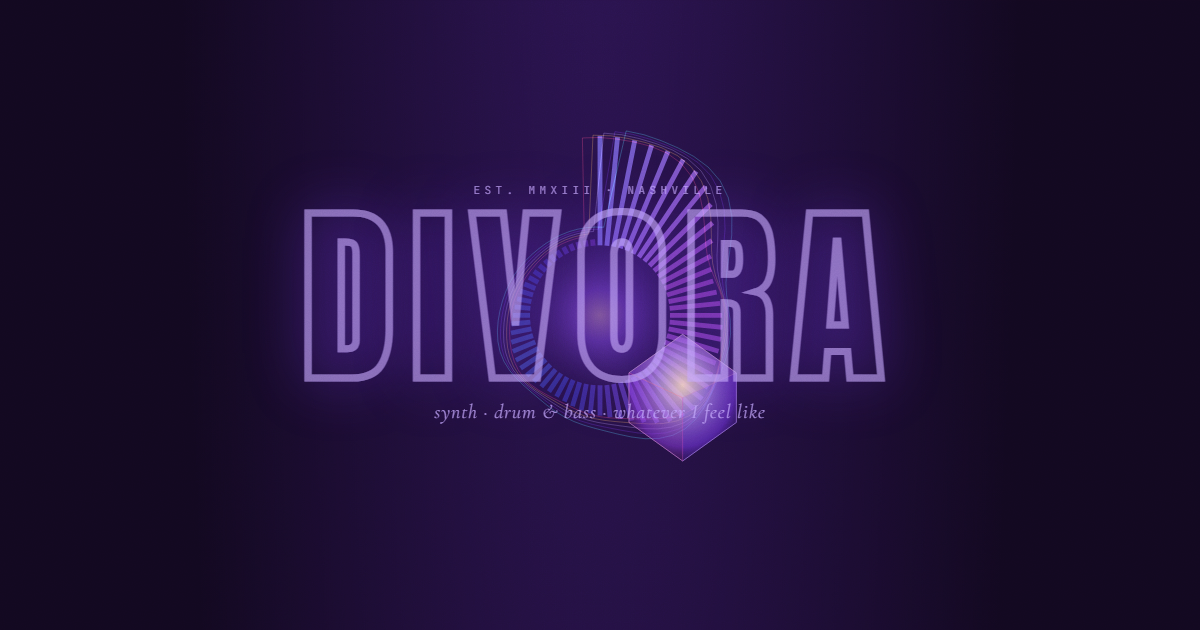
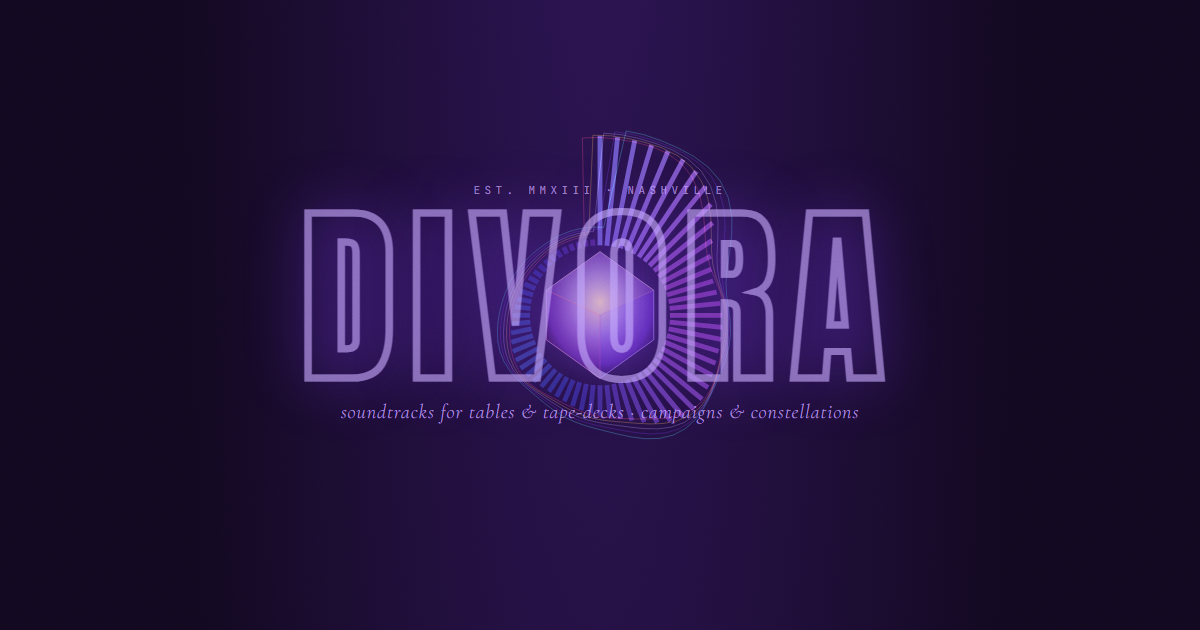
Cleanup pass: SEO meta, OG image, SFX volume, scrub throttle
Five small issues that should have landed with Phases A–F.

1. SEO meta + JSON-LD genres still said "synth · drum and bass"
   The `<meta name="description">`, `og:description`, and
   `twitter:description` all carried the original design-placeholder
   copy. Rewritten to match Phase E's tabletop framing:

     "Divora — a Nashville musician scoring tabletop campaigns and
     the spaces in between. Ambient, battle cues, and the music a
     party hears in a tavern that may or may not be real."

   MusicGroup JSON-LD `genre` updated from
     ["Synth", "Drum and Bass", "Soundtrack"]
   to
     ["Soundtrack", "Ambient", "Tabletop RPG", "Synth"].

2. OG image regenerated
   public/og.png was captured against the old tagline; rerunning
   `npm run og:generate` produced a new 632 KB image with
   "soundtracks for tables & tape-decks · campaigns & constellations"
   visible under the wordmark.

3. SFX now scale with the music volume slider
   tape eject/insert clips used to play at full volume regardless
   of the user's volume slider or mute state. cassette.js now
   tracks musicVolume + musicMuted (updated via setVolumeUI) and
   has a single playSfx() helper that skips when muted and
   multiplies clip.volume by music level × 0.7 (transient SFX a
   touch quieter than music feels right).

4. Drag-scrub throttled via requestAnimationFrame
   pointermove on the progress bar used to call audio.currentTime
   on every event — at 60+ events/sec, the audio decoder thrashes
[…]

Changed region(s): [[0.2775, 0.3921, 0.7092, 0.7238]]

diff --git a/src/cassette.js b/src/cassette.js
@@ -109,6 +109,20 @@ export function initCassette({
   sfx.eject.preload = 'auto';
   sfx.insert.preload = 'auto';
 
+  // Track the user's music volume + mute so SFX scale with them.
+  // The host calls setVolumeUI(level, muted) on init and on every
+  // change; we cache the level here so SFX playback can multiply
+  // against it (and skip entirely when muted).
+  let musicVolume = 1;
+  let musicMuted = false;
+  const SFX_VOLUME_FACTOR = 0.7; // SFX are slightly quieter than music
+  const playSfx = (clip) => {
+    if (musicMuted) return;
+    clip.volume = Math.max(0, Math.min(1, musicVolume * SFX_VOLUME_FACTOR));
+    clip.currentTime = 0;
+    clip.play().catch(() => {});
+  };
+
   let currentIndex = initialIndex;
   let swapInFlight = false;
   let typeAbort = null;
@@ -259,7 +273,15 @@ export function initCassette({
   // to scrub. Uses pointer events so touch + mouse + pen all work
   // through the same path. The tooltip follows the cursor along the
   // bar and shows the target time live.
+  //
+  // Dragging produces a torrent of pointermove events — without
+  // throttling, writing audio.currentTime that often makes the
+  // decoder stutter. We coalesce into one seek per animation frame
+  // via requestAnimationFrame, and flush the final position on
+  // pointerup so the audio lands exactly where the user released.
   let dragging = false;
+  let pendingRatio = null;
+  let seekRaf = 0;
   let currentDuration = TRACKS[initialIndex].duration;
 
   const ratioForEvent = (e) => {
@@ -271,11 +293,22 @@ export function initCassette({
     barTooltip.textContent = fmtTime(ratio * currentDuration);
     barTooltip.style.left = `${ratio * 100}%`;
   };
+  const flushSeek = () => {
+    if (pendingRatio !== null) {
+      onSeek?.(pendingRatio);
+      pendingRatio = null;
+    }
+    seekRaf = 0;
+  };
+  const queueSeek = (ratio) => {
+    pendingRatio = ratio;
+    if (!seekRaf) seekRaf = requestAnimationFrame(flushSeek);
+  };
   const onBarPointerMove = (e) => {
     if (!barBtn) return;
     const ratio = ratioForEvent(e);
     updateTooltip(ratio);
-    if (dragging) onSeek?.(ratio);
+    if (dragging) queueSeek(ratio);
   };
   const onBarPointerDown = (e) => {
     if (!barBtn) return;
@@ -284,6 +317,7 @@ export function initCassette({
     barBtn.setPointerCapture?.(e.pointerId);
     const ratio = ratioForEvent(e);
     updateTooltip(ratio);
+    // First touch seeks immediately for "click to seek" feel.
     onSeek?.(ratio);
   };
   const onBarPointerUp = (e) => {
@@ -291,6 +325,13 @@ export function initCassette({
     dragging = false;
     barBtn.classList.remove('dragging');
     barBtn.releasePointerCapture?.(e.pointerId);
+    // Flush any queued seek so the audio lands exactly where the
+    // user released, not at whatever frame the last rAF saw.
+    if (seekRaf) {
+      cancelAnimationFrame(seekRaf);
+      seekRaf = 0;
+    }
+    flushSeek();
   };
   barBtn?.addEventListener('pointermove', onBarPointerMove);
   barBtn?.addEventListener('pointerdown', onBarPointerDown);
@@ -355,8 +396,7 @@ export function initCassette({
     // wants us to auto-resume after insert.
     const wantResume = (await onSwap?.({ fromIndex, toIndex: nextIndex })) === true;
 
-    sfx.eject.currentTime = 0;
-    sfx.eject.play().catch(() => {});
+    playSfx(sfx.eject);
 
     if (!SKIP_ANIM) {
       tape.classList.remove('inserting');
@@ -369,8 +409,7 @@ export function initCassette({
     applyTrackToTape(toTrack);
     reflectSwitcher();
 
-    sfx.insert.currentTime = 0;
-    sfx.insert.play().catch(() => {});
+    playSfx(sfx.insert);
 
     if (!SKIP_ANIM) {
       tape.classList.remove('ejecting');
@@ -494,6 +533,8 @@ export function initCassette({
       timeEl.textContent = `${fmtTime(currentSec)} / ${fmtTime(d)}`;
     },
     setVolumeUI(level, muted) {
+      musicVolume = level;
+      musicMuted = !!muted;
       if (volumeInput) {
         const pct = Math.round(level * 100);
         volumeInput.value = String(pct);
@@ -511,6 +552,7 @@ export function initCassette({
     },
     destroy() {
       if (raf) cancelAnimationFrame(raf);
+      if (seekRaf) cancelAnimationFrame(seekRaf);
       document.removeEventListener('visibilitychange', onVisibility);
       trackSwitcher?.removeEventListener('click', onSwitcherClick);
       barBtn?.removeEventListener('pointermove', onBarPointerMove);

diff --git a/index.html b/index.html
@@ -6,7 +6,7 @@
     <title>Divora · Official Website</title>
     <meta
       name="description"
-      content="Divora — a musician in Nashville making synth, drum and bass, and whatever music feels true. Two folios. One signal."
+      content="Divora — a Nashville musician scoring tabletop campaigns and the spaces in between. Ambient, battle cues, and the music a party hears in a tavern that may or may not be real."
     />
     <meta name="theme-color" content="#1a0b2e" />
     <link rel="canonical" href="https://nick.sanft.com/music/" />
@@ -23,7 +23,7 @@
     <meta property="og:title" content="Divora · Official Website" />
     <meta
       property="og:description"
-      content="A musician in Nashville making synth, drum and bass, and whatever music feels true."
+      content="Soundtracks for tables and tape-decks. A Nashville musician scoring tabletop campaigns and the spaces in between."
     />
     <meta property="og:url" content="https://nick.sanft.com/music/" />
     <meta property="og:locale" content="en_US" />
@@ -40,7 +40,7 @@
     <meta name="twitter:title" content="Divora · Official Website" />
     <meta
       name="twitter:description"
-      content="A musician in Nashville making synth, drum and bass, and whatever music feels true."
+      content="Soundtracks for tables and tape-decks. A Nashville musician scoring tabletop campaigns and the spaces in between."
     />
     <meta name="twitter:image" content="https://nick.sanft.com/music/og.png" />
     <meta
@@ -59,7 +59,7 @@
         "foundingDate": "2013",
         "sameAs": ["https://divora.bandcamp.com/"],
         "email": "divoramusic@gmail.com",
-        "genre": ["Synth", "Drum and Bass", "Soundtrack"],
+        "genre": ["Soundtrack", "Ambient", "Tabletop RPG", "Synth"],
         "image": "https://nick.sanft.com/music/og.png",
         "album": [
           {
